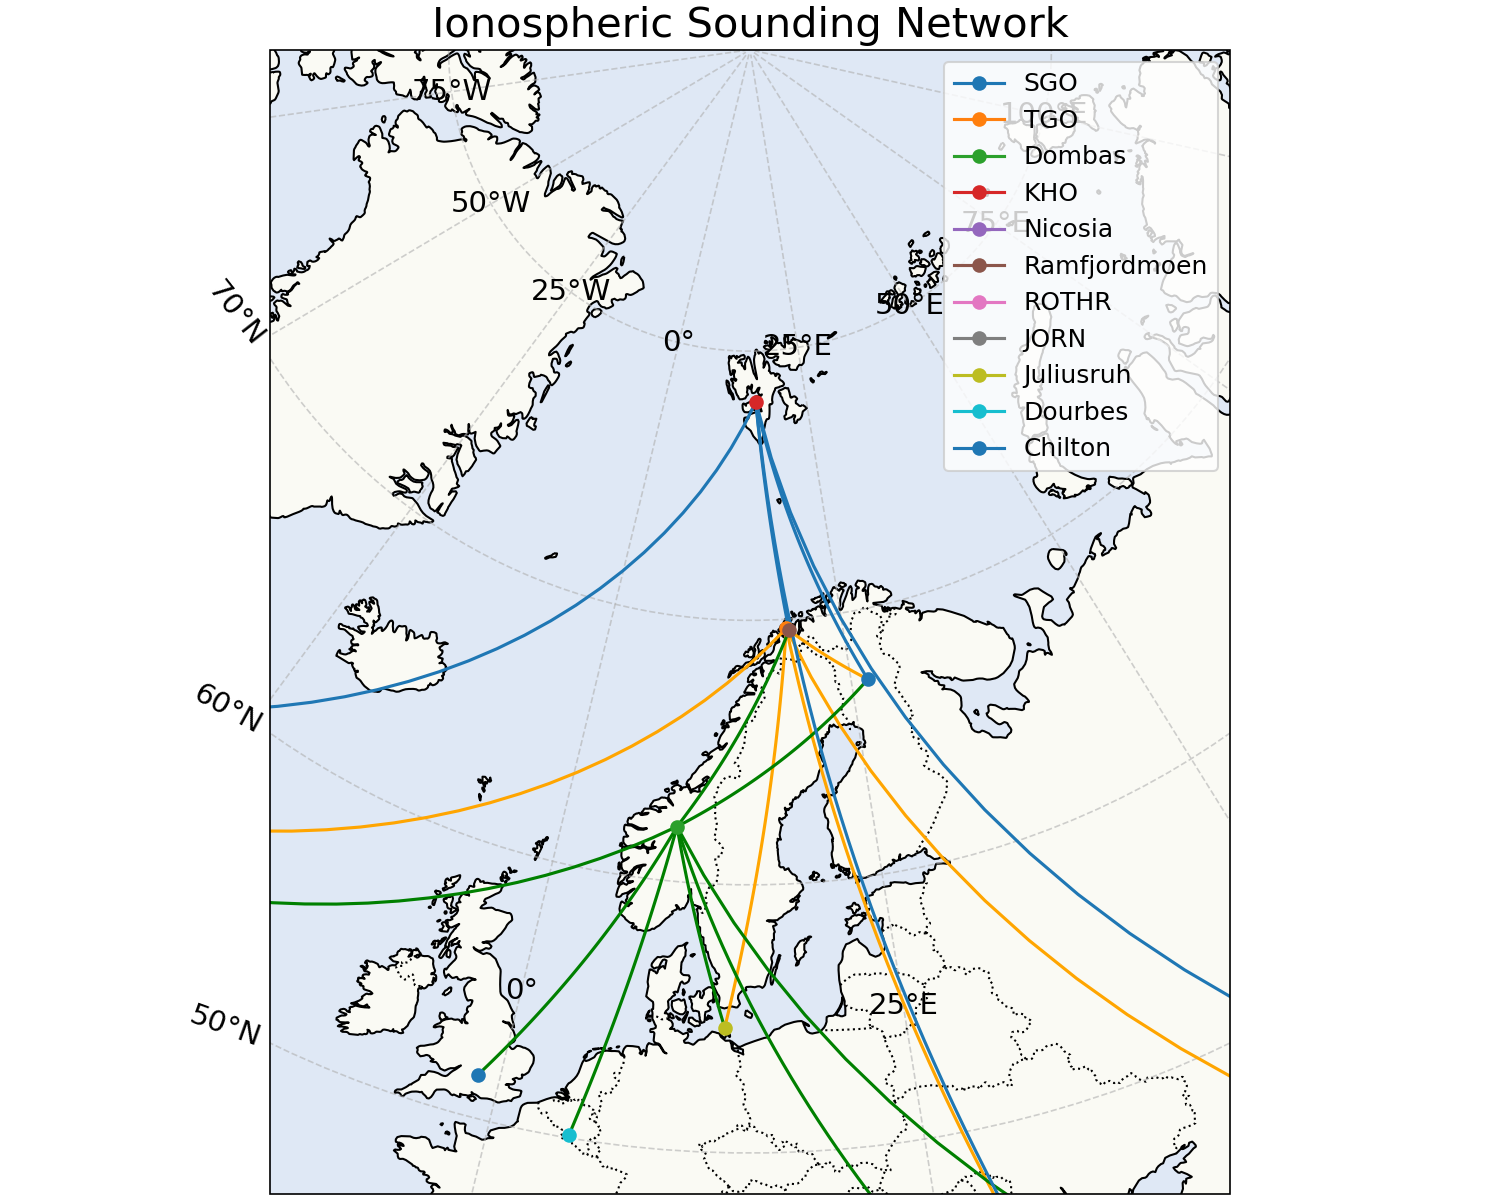
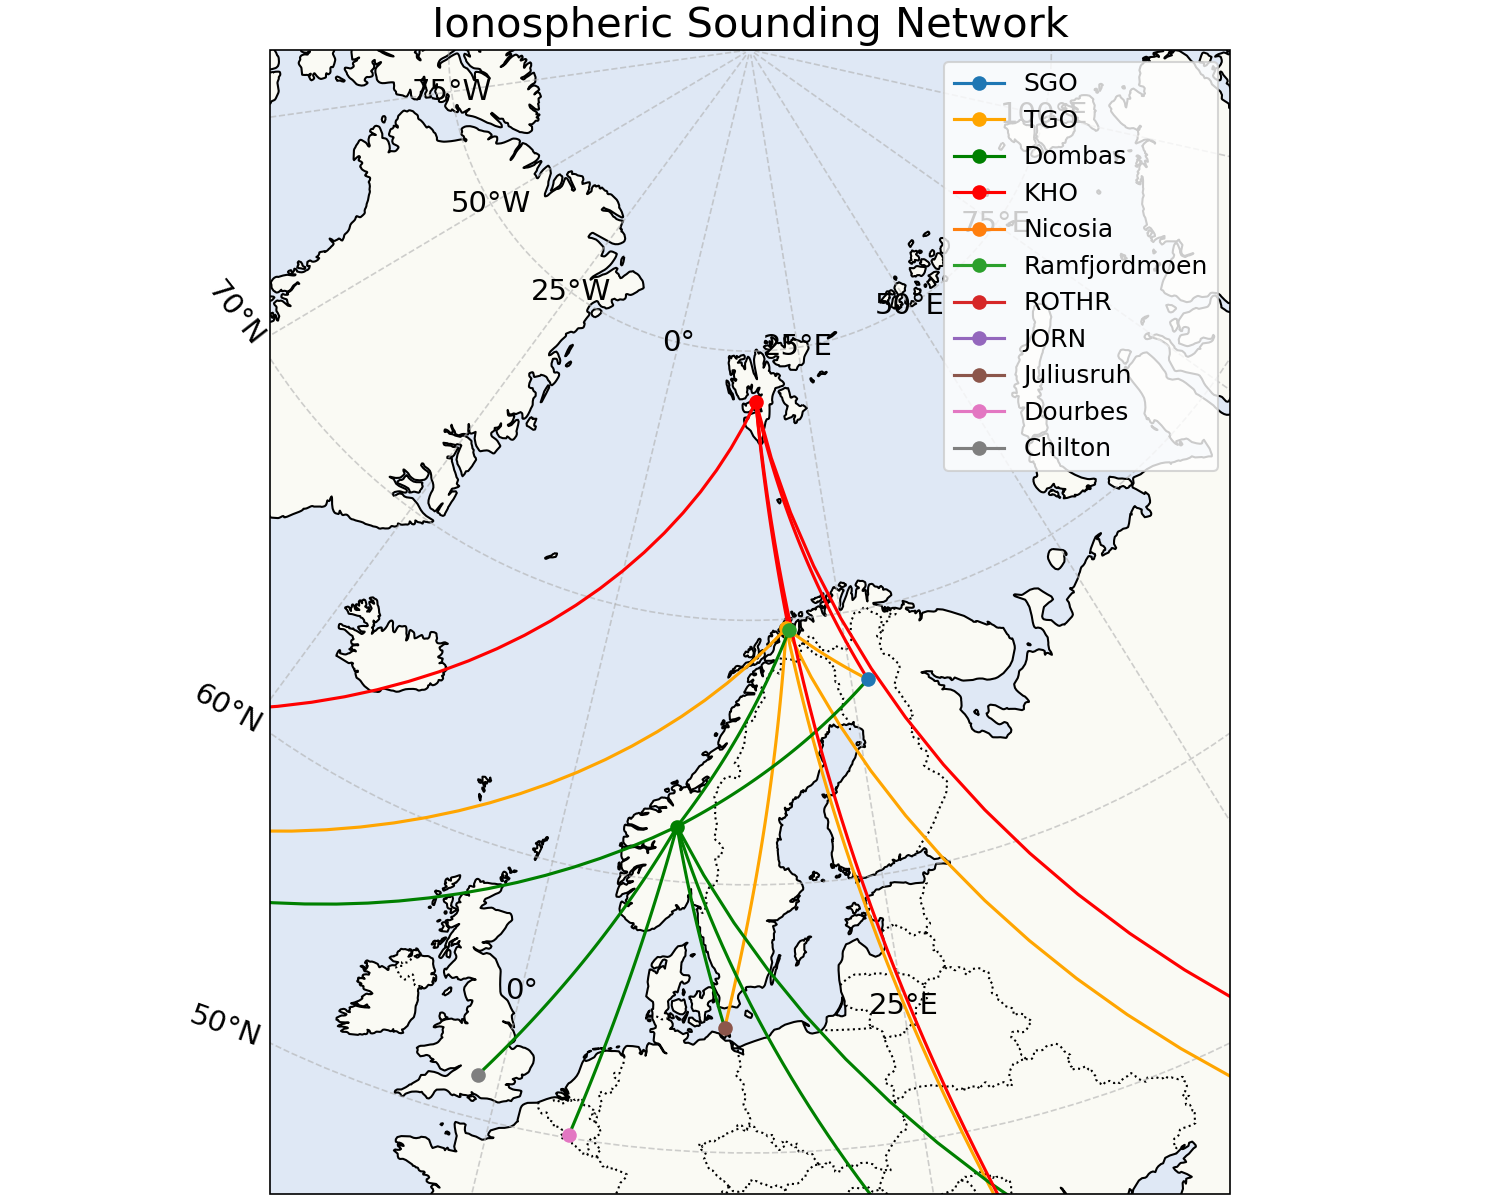
Make KHO map links red

diff --git a/plot_map.py b/plot_map.py
@@ -11,6 +11,11 @@ import argparse
 def plot_map(conf, set_extent=True, ofname="map.png"):
     print(conf.station_info)
     stations = conf.station_info
+    station_colors = {
+        "TGO": "orange",
+        "DOB": "green",
+        "KHO": "red",
+    }
   # Create map
     fig = plt.figure(figsize=(10, 8),constrained_layout=True)
 
@@ -64,15 +69,12 @@ def plot_map(conf, set_extent=True, ofname="map.png"):
         lons=n.linspace(conf.station_info[l[0]]["lon"],conf.station_info[l[1]]["lon"],num=50)
         lats=n.linspace(conf.station_info[l[0]]["lat"],conf.station_info[l[1]]["lat"],num=50)
 
-        # Determine link color based on destination
-        if l[1] == "TGO" or l[0] == "TGO":
-            color = "orange"
-        elif l[1] == "DOB" or l[0] == "DOB":
-            color = "green"
-        elif l[1] == "KHO" or l[0] == "KHO":
-            color = "tab:blue"
-        else:
-            color = "black"
+        # Determine link color based on receiver station.
+        color = "black"
+        for station_name, station_color in station_colors.items():
+            if station_name in l:
+                color = station_color
+                break
         
         ax.plot(lons,lats,
                 color=color,transform=ccrs.PlateCarree())
@@ -86,7 +88,8 @@ def plot_map(conf, set_extent=True, ofname="map.png"):
                 lon, lat,
                 marker='o',
                 transform=ccrs.PlateCarree(),
-                label=s["name"]
+                label=s["name"],
+                color=station_colors.get(name, None)
             )
 
 